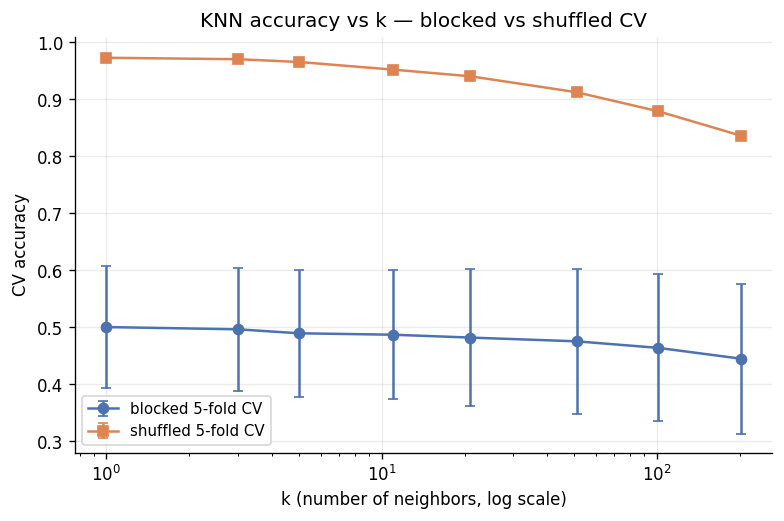
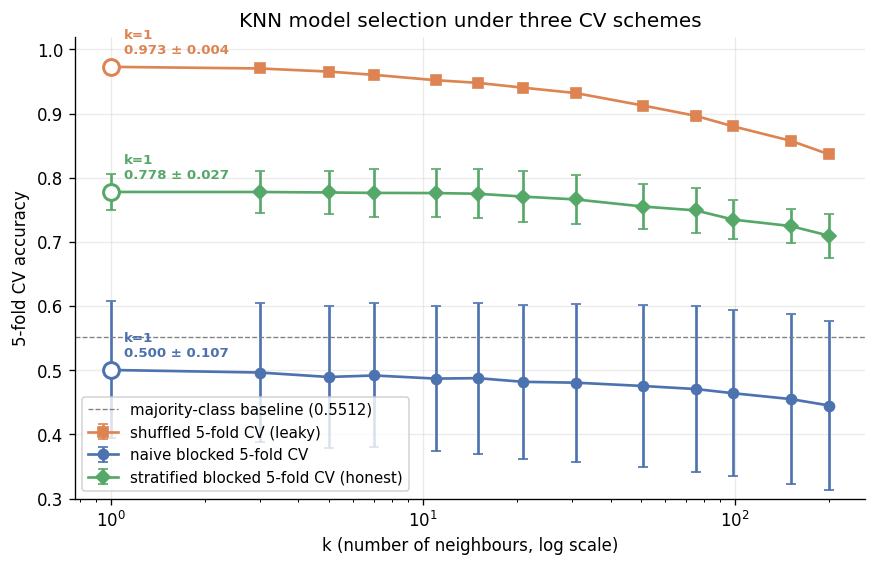
figures: regenerate figure 11 with all 3 CV schemes (new headline)
The reworked project narrative treats KNN model selection (k-sweep) as
the headline result. Figure 11 now plots accuracy +/- std vs k under
all three CV schemes on the same axes:

* shuffled 5-fold CV          (leaky baseline)
* naive blocked 5-fold CV     (leakage-resistant, class-imbalanced folds)
* stratified blocked 5-fold CV (honest, class-balanced folds)

All three schemes pick k=1 as the argmax; the picked accuracies are
97.3% (shuffled), 50.0% (naive blocked), 77.8% (stratified blocked).
The 19.5 percentage-point gap between the leaky and honest estimates
is the central methodological finding the report builds on.

The figure is now produced by a standalone, deterministic
'scripts/regenerate_figure_11.py' that loads the cached training
partition and CV fold-index sets from data/processed/, so the figure
can be reproduced outside the modelling notebook. The same script also
writes 'tables/04_knn_k_sweep.csv' for full numeric traceability.

Changed region(s): [[0.0, 0.0, 1.0, 0.9827]]

diff --git a/scripts/regenerate_figure_11.py b/scripts/regenerate_figure_11.py
@@ -1,0 +1,170 @@
+#!/usr/bin/env python3
+"""Regenerate ``figures/11_knn_k_sweep.png`` with all three CV schemes.
+
+The reworked project narrative treats KNN model selection (sweeping ``k`` to
+minimise 5-fold CV error) as the central story, and compares the same
+model-selection procedure under three different CV schemes:
+
+* shuffled 5-fold CV — leaky baseline (orange)
+* naive blocked 5-fold CV — leakage-resistant but per-fold class-imbalanced
+  on this single-subject recording (blue)
+* stratified blocked 5-fold CV — leakage-resistant AND class-balanced; the
+  honest evaluation (green)
+
+The figure plots mean accuracy ± std-dev vs ``k`` (log-spaced grid) for
+each scheme on the same axes, and annotates each scheme's argmax with a
+marker + the picked accuracy. Colors are chosen to match the palette used
+elsewhere in the modelling notebook (figures 11–15) so the visual identity
+stays consistent across the report and poster.
+
+The script is reproducible: it loads the cached training partition, the
+cached fold-index sets from ``data/processed/cv_folds.json``, and the same
+KNN factory used in ``notebooks/02_modeling.ipynb``. Re-running it will
+overwrite ``figures/11_knn_k_sweep.png`` deterministically given a fixed
+seed.
+"""
+
+from __future__ import annotations
+
+import json
+import os
+import sys
+
+import numpy as np
+import pandas as pd
+import matplotlib.pyplot as plt
+
+REPO_ROOT = os.path.abspath(os.path.join(os.path.dirname(__file__), ".."))
+if REPO_ROOT not in sys.path:
+    sys.path.insert(0, REPO_ROOT)
+
+from src.data import CHANNELS, LABEL_COL
+from src.evaluate import cv_score
+from src.plotting import apply_style, save_fig
+
+from sklearn.neighbors import KNeighborsClassifier
+
+
+PROC_DIR = os.path.join(REPO_ROOT, "data", "processed")
+FIG_DIR = os.path.join(REPO_ROOT, "figures")
+TABLE_DIR = os.path.join(REPO_ROOT, "tables")
+
+# Log-spaced k grid for model selection. Matches the grid described in the
+# methodology section of the report; small odd k captures the leakage-driven
+# autocorrelation effect, large k damps it out.
+K_GRID = [1, 3, 5, 7, 11, 15, 21, 31, 51, 75, 99, 151, 201]
+
+# Colour palette — kept in sync with figure 14 (three-way CV comparison) so
+# the same scheme always uses the same colour.
+COLOR_SHUFFLED = "#dd8452"          # warm orange (leaky baseline)
+COLOR_NAIVE_BLOCKED = "#4c72b0"     # blue (naive blocked)
+COLOR_STRATIFIED_BLOCKED = "#55a868"  # green (stratified blocked — honest)
+
+MAJORITY_BASELINE = 0.5512
+
+
+def _knn_factory(k: int):
+    """Return a fresh KNN estimator with ``n_neighbors=k`` on each call."""
+    return lambda: KNeighborsClassifier(n_neighbors=k, weights="uniform")
+
+
+def _load_train():
+    train = pd.read_csv(os.path.join(PROC_DIR, "eeg_train.csv"))
+    X = train[list(CHANNELS)].to_numpy()
+    y = train[LABEL_COL].to_numpy().astype(int)
+    return X, y
+
+
+def _load_folds():
+    with open(os.path.join(PROC_DIR, "cv_folds.json")) as f:
+        blob = json.load(f)
+    def _as_folds(name):
+        return [
+            (np.asarray(tr, dtype=np.int64), np.asarray(te, dtype=np.int64))
+            for tr, te in blob[name]
+        ]
+    return {
+        "shuffled": _as_folds("shuffled"),
+        "naive_blocked": _as_folds("blocked"),
+        "stratified_blocked": _as_folds("stratified_blocked"),
+    }
+
+
+def _sweep(X, y, folds, label):
+    rows = []
+    for k in K_GRID:
+        result = cv_score(_knn_factory(k), X, y, folds)
+        acc = result["accuracy"]
+        rows.append({
+            "scheme": label,
+            "k": k,
+            "mean": acc["mean"],
+            "std": acc["std"],
+        })
+        print(f"  {label:>22s}  k={k:>3d}  acc={acc['mean']:.4f} ± {acc['std']:.4f}")
+    return pd.DataFrame(rows)
+
+
+def main():
+    apply_style()
+    os.makedirs(FIG_DIR, exist_ok=True)
+    os.makedirs(TABLE_DIR, exist_ok=True)
+
+    X, y = _load_train()
+    folds = _load_folds()
+
+    print("running KNN k-sweep under three CV schemes ...")
+    df_shuf = _sweep(X, y, folds["shuffled"], "shuffled")
+    df_naive = _sweep(X, y, folds["naive_blocked"], "naive blocked")
+    df_strat = _sweep(X, y, folds["stratified_blocked"], "stratified blocked")
+
+    # Persist a tidy CSV of the swept numbers so the figure is reproducible
+    # and reviewable as a table too.
+    sweep_df = pd.concat([df_shuf, df_naive, df_strat], ignore_index=True)
+    sweep_csv = os.path.join(TABLE_DIR, "04_knn_k_sweep.csv")
+    sweep_df.to_csv(sweep_csv, index=False)
+    print(f"wrote {sweep_csv}")
+
+    fig, ax = plt.subplots(figsize=(8.5, 5.0))
+
+    def _plot(d, color, marker, label):
+        ax.errorbar(
+            d["k"], d["mean"], yerr=d["std"],
+            marker=marker, color=color, capsize=3, linewidth=1.6,
+            markersize=6, label=label,
+        )
+        # Annotate the argmax for this scheme.
+        i = int(d["mean"].idxmax())
+        kx = int(d.loc[i, "k"])
+        my = float(d.loc[i, "mean"])
+        sy = float(d.loc[i, "std"])
+        ax.scatter([kx], [my], s=90, facecolor="white", edgecolor=color,
+                   linewidth=1.8, zorder=5)
+        ax.annotate(
+            f"k={kx}\n{my:.3f} ± {sy:.3f}",
+            xy=(kx, my),
+            xytext=(8, 8), textcoords="offset points",
+            fontsize=8, color=color, fontweight="bold",
+        )
+
+    _plot(df_shuf, COLOR_SHUFFLED, "s", "shuffled 5-fold CV (leaky)")
+    _plot(df_naive, COLOR_NAIVE_BLOCKED, "o", "naive blocked 5-fold CV")
+    _plot(df_strat, COLOR_STRATIFIED_BLOCKED, "D",
+          "stratified blocked 5-fold CV (honest)")
+
+    ax.axhline(MAJORITY_BASELINE, color="gray", linestyle="--",
+               linewidth=0.8, label=f"majority-class baseline ({MAJORITY_BASELINE:.4f})")
+
+    ax.set_xscale("log")
+    ax.set_xlabel("k (number of neighbours, log scale)")
+    ax.set_ylabel("5-fold CV accuracy")
+    ax.set_title("KNN model selection under three CV schemes")
+    ax.set_ylim(0.30, 1.02)
+    ax.legend(loc="lower left", fontsize=9)
+
+    out = save_fig(fig, "11_knn_k_sweep.png")
+    print(f"wrote {out}")
+
+
+if __name__ == "__main__":
+    main()